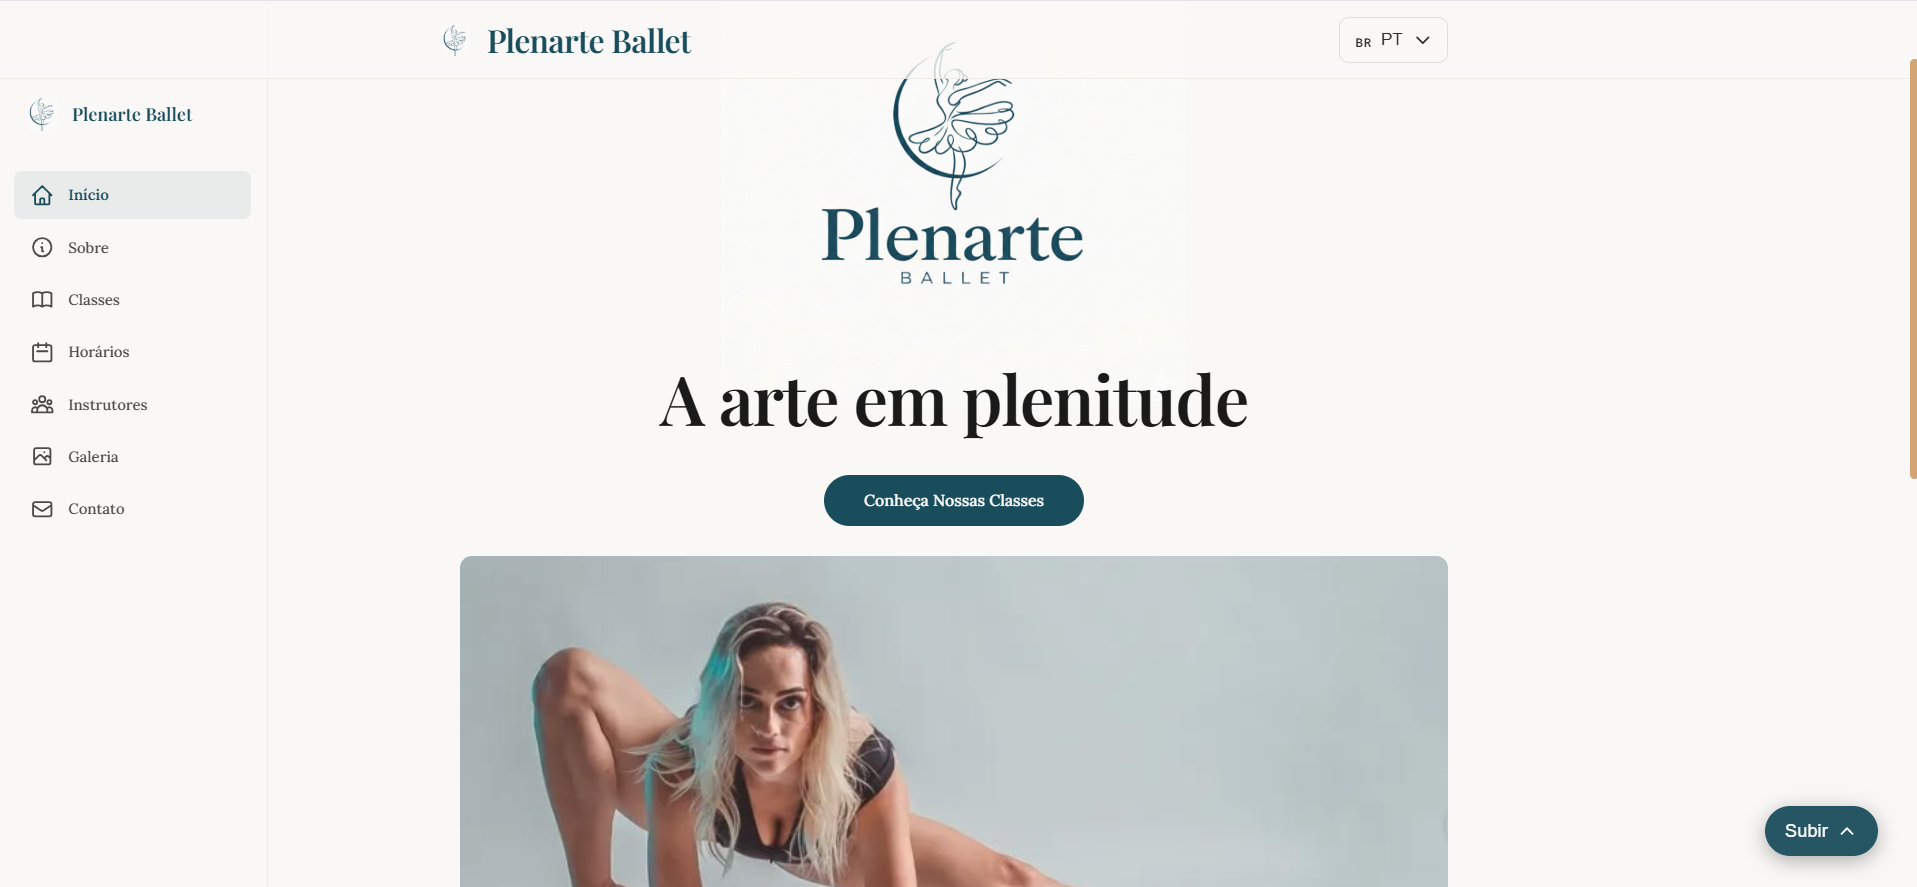
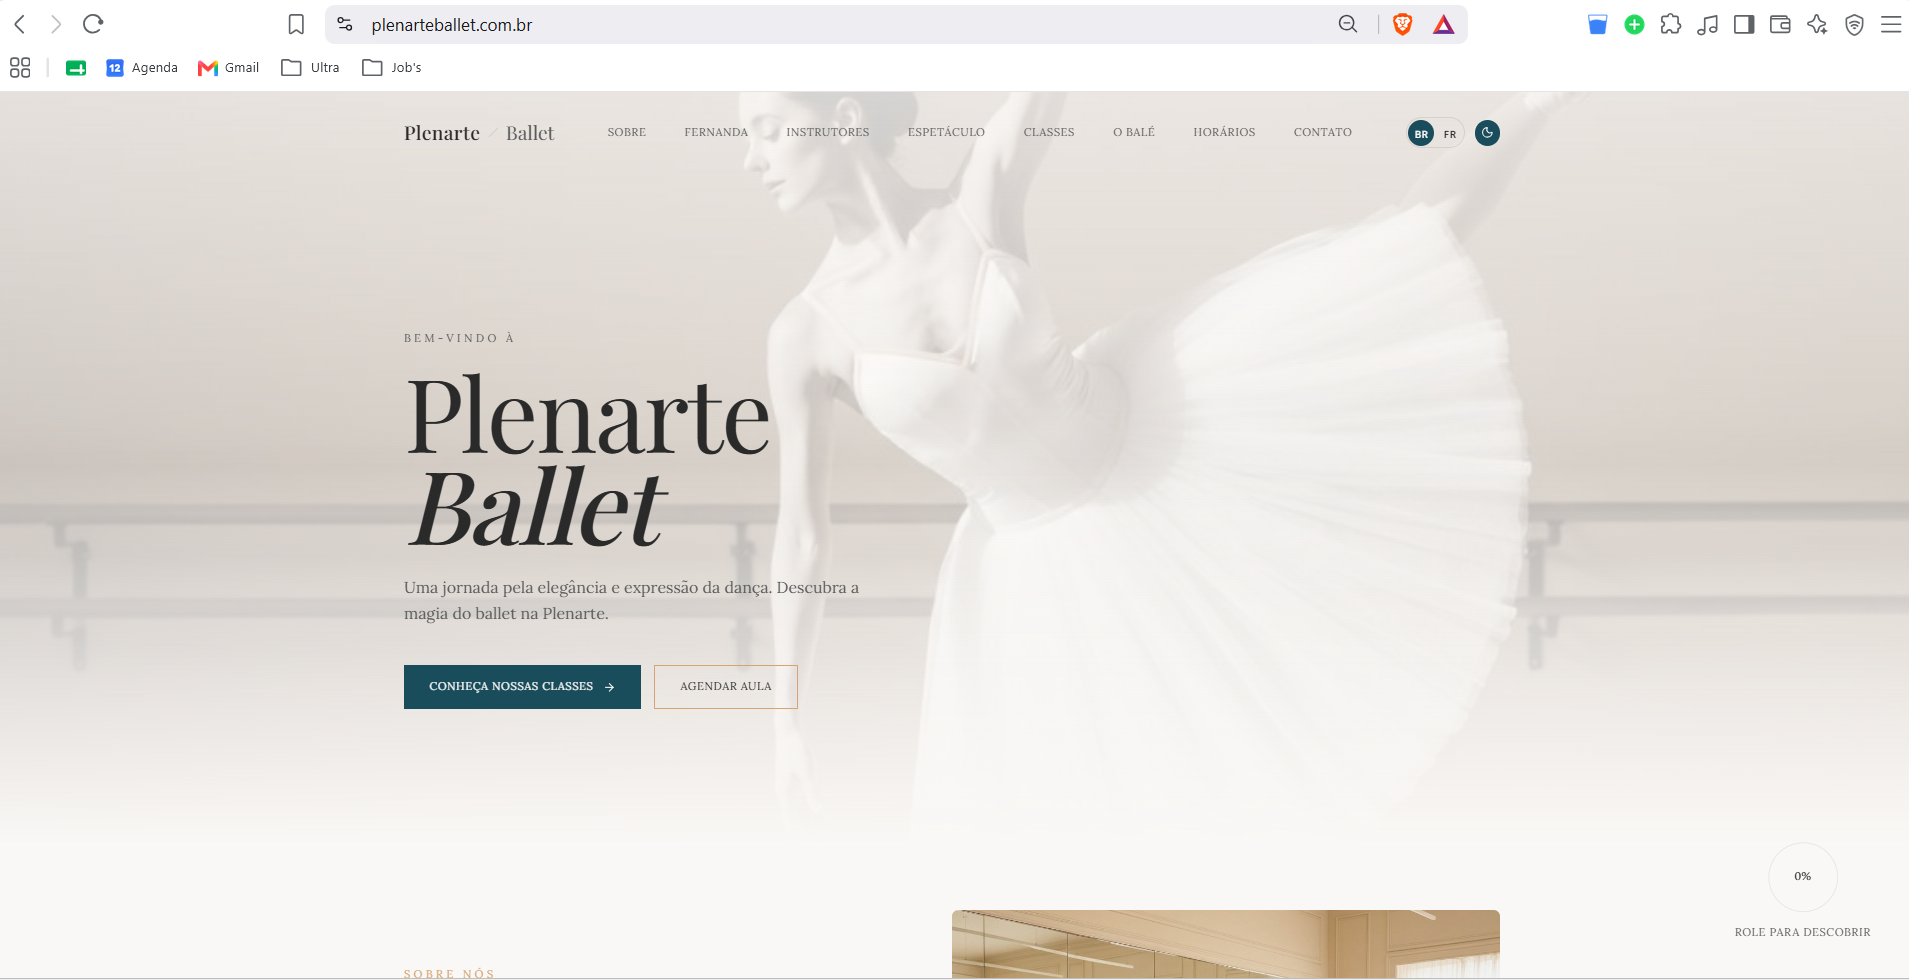
fix: correção do tempo de experiencia

diff --git a/src/components/hero/page.tsx b/src/components/hero/page.tsx
@@ -129,7 +129,7 @@ export function Hero() {
 
             {/* Description */}
             <TranslatedP
-              pt="Com 17 anos de experiência no setor de tecnologia, sendo 12 anos dedicados ao desenvolvimento em Cobol para mainframe e 6 anos no desenvolvimento de soluções web e mobile, sou apaixonado por criar soluções inovadoras que atendem às necessidades dos usuários."
+              pt="Com 18 anos de experiência no setor de tecnologia, sendo 12 anos dedicados ao desenvolvimento em Cobol para mainframe e 6 anos no desenvolvimento de soluções web e mobile, sou apaixonado por criar soluções inovadoras que atendem às necessidades dos usuários."
               en="With 18+ years of experience in the technology sector, including 12 years dedicated to Cobol development for mainframes and 6 years in web and mobile development, I'm passionate about creating innovative solutions that meet user needs."
               className="text-lg leading-relaxed text-slate-300 max-w-2xl"
             />
@@ -168,7 +168,11 @@ export function Hero() {
               )}
               <Button
                 size="lg"
-                className={isEnglish ? 'border-white/20 text-white hover:bg-white/10 backdrop-blur-sm' : 'bg-gradient-to-r from-[#ffd95a] to-[#ff6b6b] hover:from-[#ffed4e] hover:to-[#ff5252] text-slate-900 font-semibold group'}
+                className={
+                  isEnglish
+                    ? 'border-white/20 text-white hover:bg-white/10 backdrop-blur-sm'
+                    : 'bg-gradient-to-r from-[#ffd95a] to-[#ff6b6b] hover:from-[#ffed4e] hover:to-[#ff5252] text-slate-900 font-semibold group'
+                }
                 asChild
               >
                 <a
